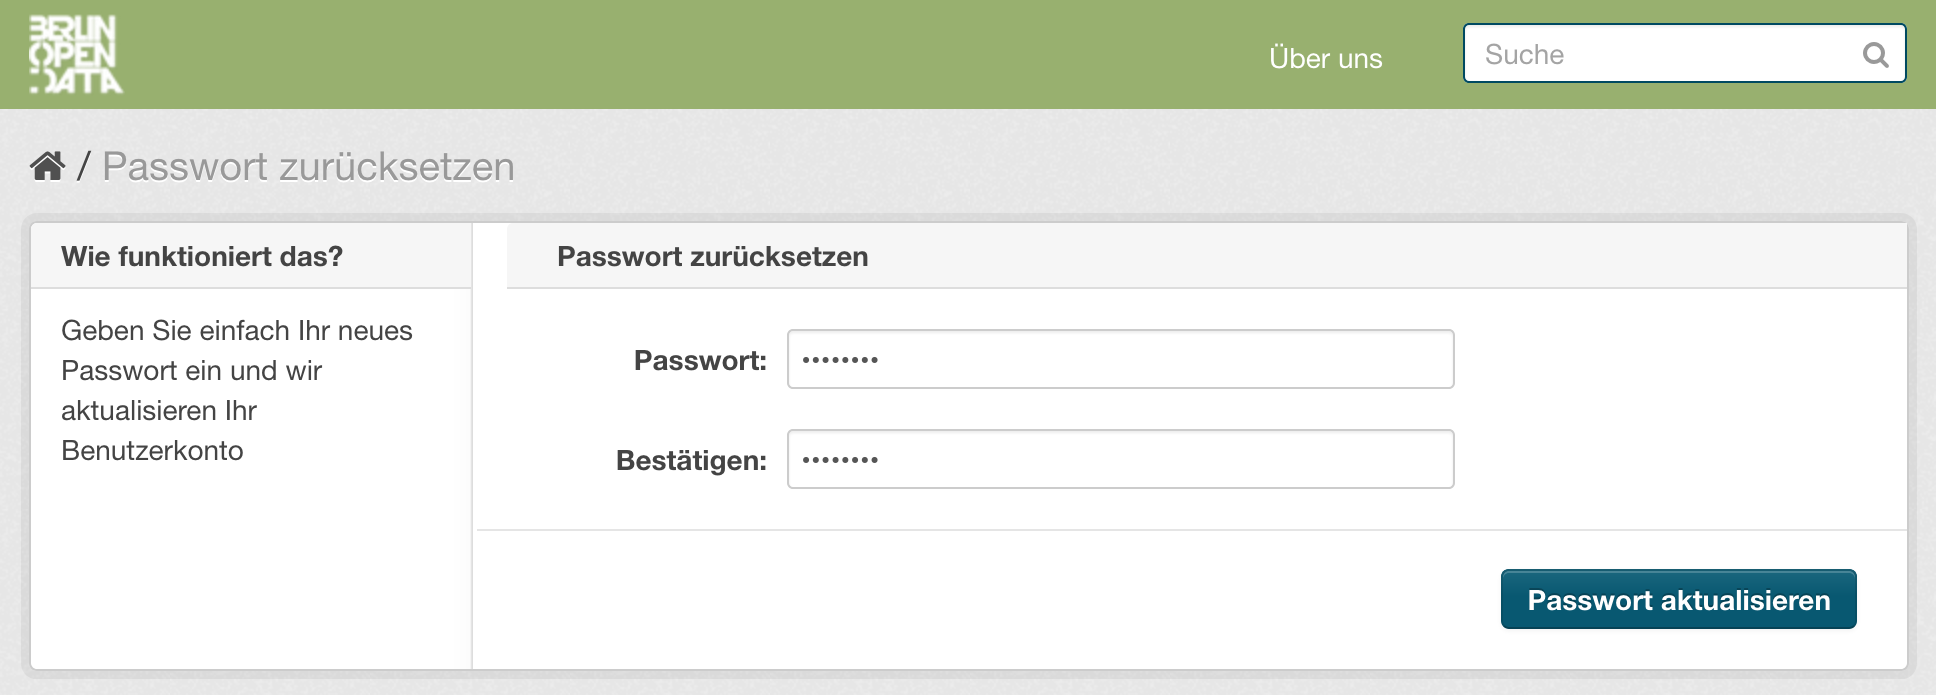
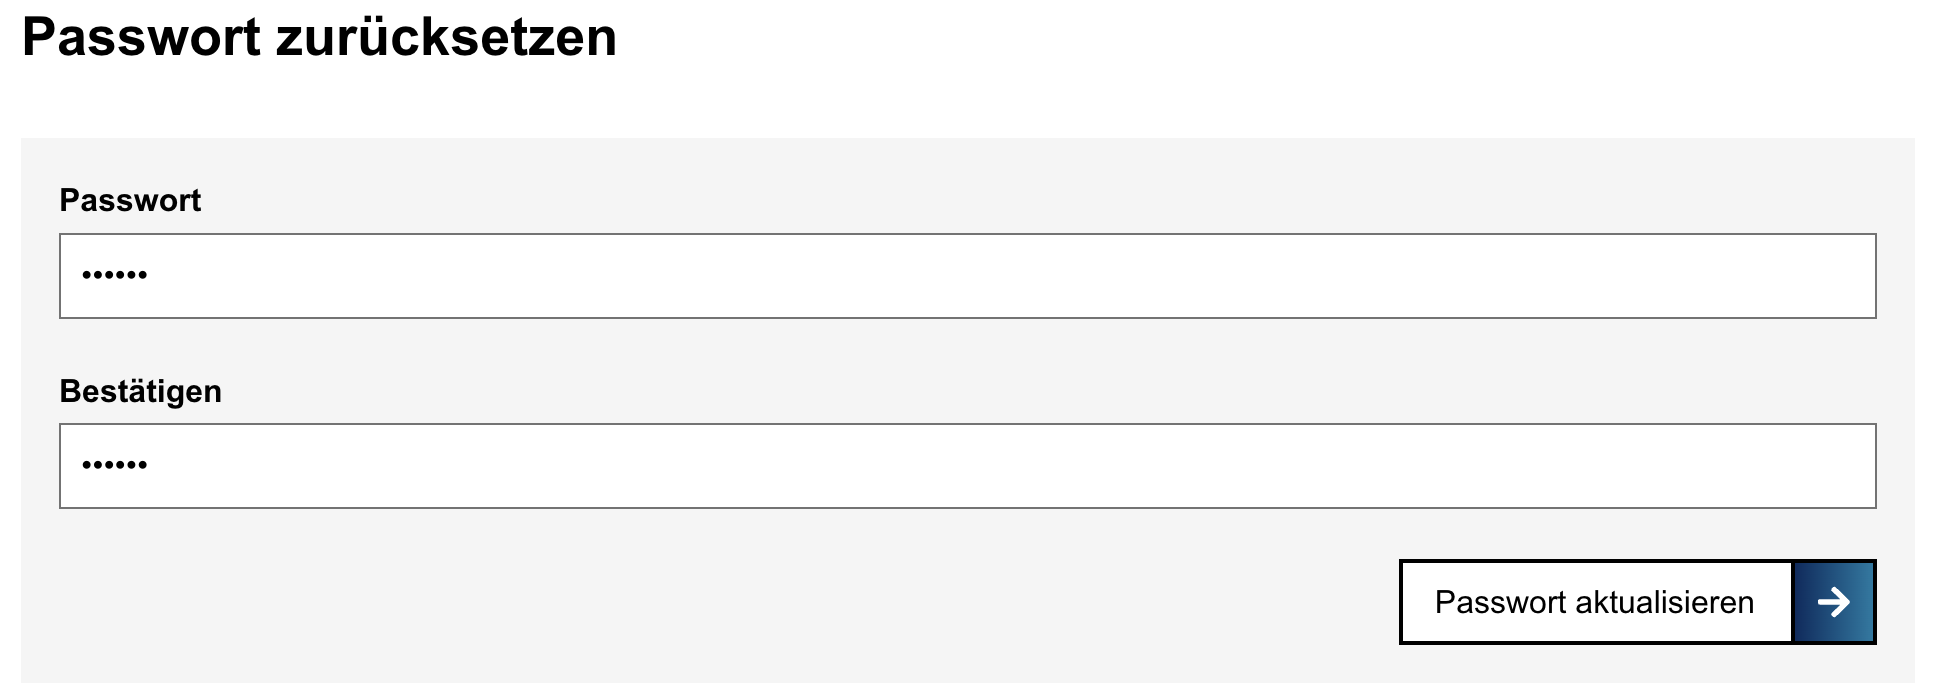
screenshots and content changed to reflect new Datenregister layout and changes in Berlin Designsystem

diff --git a/handreichung_opendata.md b/handreichung_opendata.md
@@ -936,19 +936,15 @@ Um ein Benutzerkonto zu beantragen und zu aktivieren, gehen Sie folgendermaßen 
 
 ### Navigation
 
-Sobald Sie eingeloggt sind, können Sie die Funktionen des Datenregisters nutzen (s. Abb.&nbsp;\ref{fig:datenregister_navigation}).
+Sobald Sie eingeloggt sind, können Sie die Funktionen des Datenregisters nutzen.
+Den Einstiegspunkt bieten dabei die drei von berlin.de bekannten Quicklinks rechts oben: „Barrierefrei“, „Suche“ und „Menü“.
+Über den „Menü“-Link gelangen Sie zur Hauptnavigation des Datenregisters (s. Abb.&nbsp;\ref{fig:datenregister_navigation}).
 
 ![Navigation\label{fig:datenregister_navigation}](images/screenshot_menue.png "Die Navigationselemente des Berliner Datenregisters")
 
-#### Nutzermenü
+#### Hauptnavigation
 
-Im Nutzermenü am oberen Rand des Fensters können Sie auf Funktionen des Datenregisters zugreifen, die Ihr Benutzerkonto betreffen.
-Sie können etwa Ihr [Nutzerprofil](#nutzerprofil) einsehen und ändern, Ihr persönliches [Dashboard](#dashboard) aufrufen oder sich nach getaner Arbeit wieder ausloggen.
-
-#### Hauptmenü
-
-Unter dem Nutzermenü befindet sich das Hauptmenü des Datenregisters.
-Hier können Sie nach Datensätzen suchen sowie in die verschiedenen Hauptbereiche des Datenregisters navigieren:
+Über die oberen Menüpunkte können Sie in die verschiedenen Hauptbereiche des Datenregisters navigieren:
 
 - **Datensätze:** Hier gelangen Sie zur Liste aller Datensätze, die sich über das Suchfeld und die Filterfunktionen auf der linken Seite einschränken lässt.
 An dieser Stelle finden Sie auch die Möglichkeit, einen neuen [Datensatz hinzuzufügen](#datensatz-anlegen-1).
@@ -960,7 +956,13 @@ Wählt man eine Organisation aus, gelangt man zur Liste der Datensätze dieser O
 Hier können Sie eine Liste aller Kategorien aufrufen.
 Wählt man eine Kategorie aus, gelangt man zur Liste der Datensätze in dieser Kategorie.
 
-- **Über uns:** Dies ist das Impressum (und die einzige öffentliche Seite) des Datenregisters.
+- **Über uns:** Dies ist das Impressum (und neben der Datenschutzerklärung die einzige öffentliche Seite) des Datenregisters.
+
+#### Weiteres
+
+Unter „Weiteres“ können Sie auf Funktionen des Datenregisters zugreifen, die Ihr Benutzer:innenkonto betreffen.
+Sie können etwa Ihr [Profil](#nutzerprofil) einsehen und ändern, Ihr persönliches [Dashboard](#dashboard) aufrufen oder sich nach getaner Arbeit wieder abmelden.
+
 
 ### Dashboard
 
@@ -969,17 +971,16 @@ Das Dashboard bietet einen Nachrichtenfeed, der Ereignisse von Objekten anzeigt,
 ![Das Dashboard\label{fig:datenregister_dashboard}](images/screenshot_dashboard.png "Das Dashboard eines Nutzers, mit einer Liste von Ereignissen")
 
 Sie können z.&nbsp;B. Organisationen oder Kategorien folgen und erfahren dann über das Dashboard, wenn neue Datensätze hinzugefügt oder bestehende geändert wurden.
-Sie können auch einzelnen Datensätzen folgen.
-Um etwa einer Kategorie zu folgen, öffnen Sie deren Seite über den _Kategorien_-Reiter im Hauptmenü und klicken Sie dann den _Folgen_ Button (s. Abb.&nbsp;\ref{fig:datenregister_folgen}).
+Um etwa einer Kategorie zu folgen, öffnen Sie deren Seite über den _Kategorien_-Reiter im Hauptmenü und klicken dann den _Folgen_ Button (s. Abb.&nbsp;\ref{fig:datenregister_folgen}).
 
-![Einer Kategorie folgen\label{fig:datenregister_folgen}](images/screenshot_follow_category.png "Einer Kategorie folgen über den Follow Button"){width=250px}{:width="300px"}{: .centered }
+![Einer Organisation folgen\label{fig:datenregister_folgen}](images/screenshot_follow_org.png "Einer Organisation folgen über den Follow-Button"){width=250px}{:width="300px"}{: .centered }
 
-Sie öffnen das Dashboard entweder über das [Nutzermenü](#nutzermenü) oder direkt über den Link <https://datenregister.berlin.de/dashboard>. 
+Sie öffnen das Dashboard entweder über [Weiteres](#weiteres) im Navigationsmenü oder direkt über den Link <https://datenregister.berlin.de/dashboard>.
 Auf ihrer Profilseite haben Sie außerdem die Möglichkeit, eine E-Mail-Benachrichtigung über neue Ereignisse auf Ihrem Dashboard zu abonnieren (unter _Bearbeiten_).
 
-### Nutzerprofil
+### Profil
 
-Im Nutzerprofil können Sie die Daten ansehen und bearbeiten, die das Datenregister zu Ihnen speichert (s. Abb.&nbsp;\ref{fig:datenregister_nutzerprofil}).
+Im Nutzer:innenprofil können Sie die Daten ansehen und bearbeiten, die das Datenregister zu Ihnen speichert (s. Abb.&nbsp;\ref{fig:datenregister_nutzerprofil}).
 Dazu gehören Name, E-Mail-Adresse und optional ein kurzer Beschreibungstext, etwa Ihre Position, weitere Kontaktdaten etc.
 Außerdem ist hier ein Link zu der Organisation zu finden, der man bei der Erstellung des Nutzeraccounts zugeordnet wurde. 
 
@@ -1014,8 +1015,8 @@ Auf diese Weise gelangen Sie zum Eingabeformular für einen neuen Datensatz (s. 
 
 Im ersten Schritt geben Sie die allgemeinen Metadaten zu ihrem Datensatz ein. 
 Zur Bedeutung der verschiedenen Metadatenfelder siehe auch das Kapitel [_Metadaten_](#metadaten).
-Pflichtfelder sind rot markiert; alle anderen Felder sind optional.
-Wenn Sie alle Metadaten eingegeben haben, gelangen Sie über den Button _Daten hinzufügen_ zum nächsten Schritt, in dem Sie die eigentlichen Datenressourcen hinzufügen.
+Pflichtfelder sind mit einem Stern markiert; alle anderen Felder sind optional.
+Wenn Sie alle Metadaten eingegeben haben, gelangen Sie über den Button _Daten hinzufügen_ zum nächsten Schritt, in dem Sie die eigentlichen Datenressourcen angeben.
 
 ### Datenressourcen hinzufügen
 

diff --git a/CHANGELOG.md b/CHANGELOG.md
@@ -2,6 +2,12 @@
 
 ## Development
 
+## [3.0.0](https://github.com/berlinonline/open-data-handbuch/releases/tag/3.0.0)
+
+_(2026-03-16)_
+
+- Content (mainly screenshots) updated to reflect new Datenregister Layout and changes in Berlin Designsystem.
+
 ## [2.0.2](https://github.com/berlinonline/open-data-handbuch/releases/tag/2.0.2)
 
 _(2025-11-20)_
